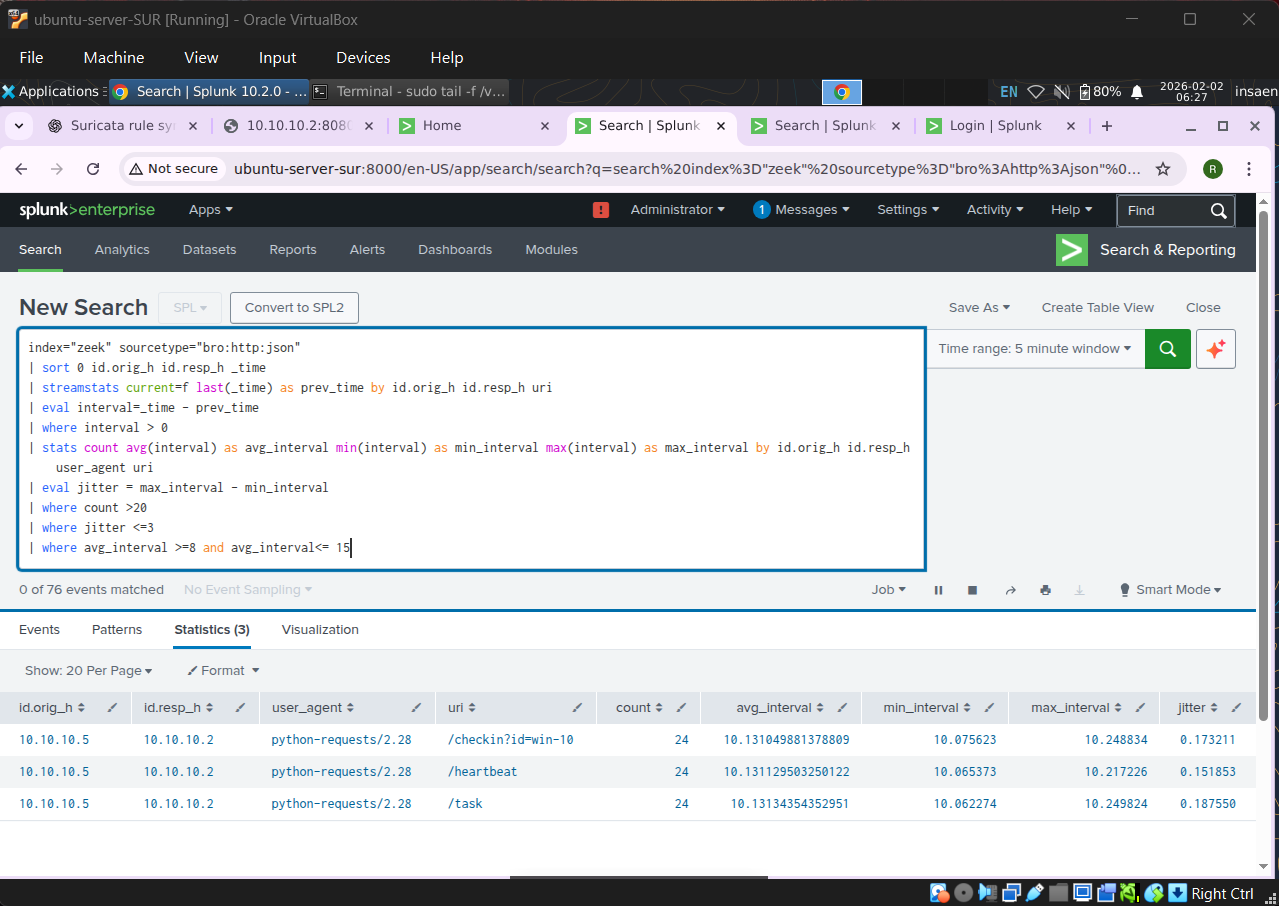
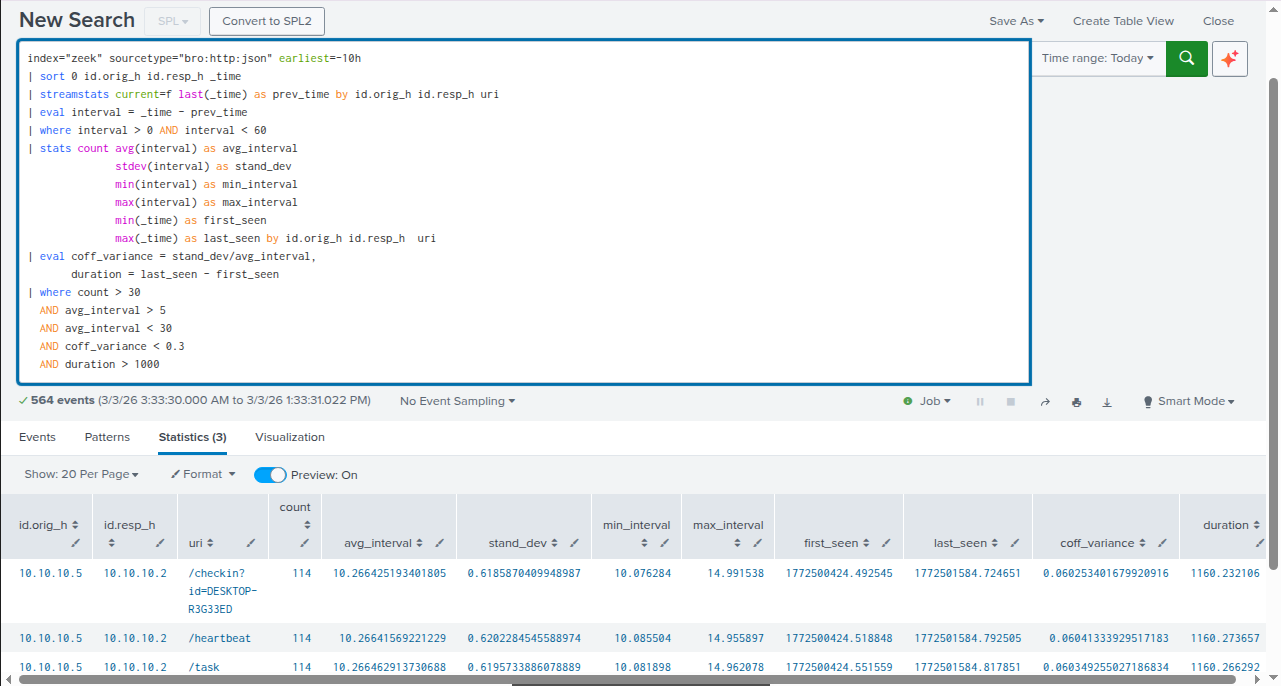
added incidence response for http beconing

diff --git a/MITRE/TA0011-Command&control/http_beconing/http_beconing.md b/MITRE/TA0011-Command&control/http_beconing/http_beconing.md
@@ -100,18 +100,31 @@ Detection is typically performed by analyzing `Zeek`'s HTTP logs. Since malware 
 
 ### Splunk SPL Queries
 
-**1. Detection based on URI and Fast Beaconing**
+**1. Detection based on URI**
 This query analyzes requests where the URI remains consistent, looking for regular intervals typical of automated beacons.
 
+> Note:** for slow beconing we simply have to adjust the earliest and duration
+
 ```splunk
-index="zeek" sourcetype="bro:http:json" latest=-1h
+index="zeek" sourcetype="bro:http: json" earliest =- 10h
 | sort 0 id.orig_h id.resp_h _time
-| streamstats current=f last(_time) as prev_time by id.orig_h id.resp_h uri
-| eval interval = _time - prev_time
-| where interval > 0
-| stats count avg(interval) as avg_interval stdev(interval) as stand_dev min(interval) as min_interval max(interval) as max_interval by id.orig_h id.resp_h  uri
-| eval coff_variance = stand_dev/avg_interval
-| where count > 20 AND coff_variance < 0.3
+| streamstats current=f last(_time) as prev_time by id.orig_h id. resp_h uri
+| eval interval = _time - prev_timeS
+| where interval > 0 AND interval < 60
+| stats count avg(interval) as avg_interval
+stdev(interval) as stand_dev
+min(interval) as min_interval
+max(interval) as max_interval
+min(_time) as first_seen
+max(_time) as last_seen
+by id.orig_h id.resp_h uri
+| eval coff_variance = stand_dev/avg_interval,
+duration = last_seen - first_seen
+| where count > 30
+AND avg_interval > 5
+AND avg_interval < 30
+AND coff_variance < 0.3
+AND duration > 1000
 ```
 
 ![Splunk SPL Visualization](./images/Becon-Spl.png)
@@ -120,28 +133,50 @@ index="zeek" sourcetype="bro:http:json" latest=-1h
 This query focuses on communication between IP pairs regardless of the URI, identifying high-frequency beaconing.
 
 ```splunk
-index="zeek" sourcetype="bro:http:json" latest=-1h
+index="zeek" sourcetype="bro:http: json" earliest =- 10h
 | sort 0 id.orig_h id.resp_h _time
-| streamstats current=f last(_time) as prev_time by id.orig_h id.resp_h uri
-| eval interval = _time - prev_time
-| where interval > 0
-| stats count avg(interval) as avg_interval stdev(interval) as stand_dev min(interval) as min_interval max(interval) as max_interval by id.orig_h id.resp_h  
-| eval coff_variance = stand_dev/avg_interval
-| where count > 20 AND coff_variance < 0.3
+| streamstats current=f last(_time) as prev_time by id.orig_h id. resp_h 
+| eval interval = _time - prev_timeS
+| where interval > 0 AND interval < 60
+| stats count avg(interval) as avg_interval
+stdev(interval) as stand_dev
+min(interval) as min_interval
+max(interval) as max_interval
+min(_time) as first_seen
+max(_time) as last_seen
+by id.orig_h id.resp_h uri
+| eval coff_variance = stand_dev/avg_interval,
+duration = last_seen - first_seen
+| where count > 30
+AND avg_interval > 5
+AND avg_interval < 30
+AND coff_variance < 0.3
+AND duration > 1000
 ```
 
 **3. Detection based solely on IP (24-Hour Window)**
 Similar to the above, but analyzes a longer timeframe (last 24 hours) to catch slower or persistent beaconing.
 
 ```splunk
-index="zeek" sourcetype="bro:http:json" latest=-1d
+index="zeek" sourcetype="bro:http: json" earliest =- 10h
 | sort 0 id.orig_h id.resp_h _time
-| streamstats current=f last(_time) as prev_time by id.orig_h id.resp_h uri
-| eval interval = _time - prev_time
-| where interval > 0
-| stats count avg(interval) as avg_interval stdev(interval) as stand_dev min(interval) as min_interval max(interval) as max_interval by id.orig_h id.resp_h 
-| eval coff_variance = stand_dev/avg_interval
-| where count > 20 AND coff_variance < 0.3
+| streamstats current=f last(_time) as prev_time by id.orig_h id. resp_h 
+| eval interval = _time - prev_timeS
+| where interval > 0 AND interval < 60
+| stats count avg(interval) as avg_interval
+stdev(interval) as stand_dev
+min(interval) as min_interval
+max(interval) as max_interval
+min(_time) as first_seen
+max(_time) as last_seen
+by id.orig_h id.resp_h uri
+| eval coff_variance = stand_dev/avg_interval,
+duration = last_seen - first_seen
+| where count > 30
+AND avg_interval > 5
+AND avg_interval < 30
+AND coff_variance < 0.3
+AND duration > 1000
 ```
 **Suricata Rule**
 Suricata isn't really reliable to detect http beconing although we can write rule for it but it can potentailly generate a lot of false positives and there isn't really a fixed signature with http beconing to track with.

diff --git a/MITRE/TA0011-Command&control/http_beconing/incidence_res.md b/MITRE/TA0011-Command&control/http_beconing/incidence_res.md
@@ -1,0 +1,69 @@
+# Incident Report: Suspected C2 HTTP Beaconing
+
+## Summary
+- Incident ID: IR-001
+- Date: 03/03/2026
+- Severity: Critical (P1)
+- Status: Confirmed Malicious
+- Analyst: Rahul dharwal
+
+## 1. Alert Trigger
+What alert fired and from which tool?
+
+- Splunk alert triggered on Zeek HTTP logs
+- SPL query detected low coefficient of variance (< 0.3) 
+  between a source and destination IP pair
+- Beaconing interval: ~10 seconds
+- Request count: 114 requests in 10 hours
+
+## 2. Investigation / Triage
+Step 1: Verified the source IP (10.10.10.5 — Windows victim) 
+
+Step 2: Verified the destination IP (10.10.10.2 — Kali/attacker)
+
+Step 3: Checked the URIs being hit → /checkin, /heartbeat, /task
+        (These are not normal browsing patterns)
+
+Step 4: Checked User-Agent → "python-requests/2.28"
+        (Not a browser — automated script)
+
+Step 5: Checked Suricata logs for any signature-based alerts
+        on the same IP pair, `found a SYN port scan and a ssh brute force attempt right after that`
+        
+Step 6: Checked if destination IP is a known/internal server → 
+        Destination ip is internal thus its a `insider threat` or someone in out internal network
+
+## 3. Findings / Indicators of Compromise (IOCs)
+| IOC Type | Value |
+|----------|-------|
+| Source IP | 10.10.10.5 |
+| Destination IP | 10.10.10.2 |
+| Destination Port | 8080 |
+| URIs | /checkin, /heartbeat, /task |
+| User-Agent | python-requests/2.28 |
+| Beacon Interval | ~10 seconds |
+| Protocol | HTTP (unencrypted) |
+
+## 4. Impact Assessment
+- Compromised host: Windows 10 victim machine
+- The malware is actively calling back to a C2 server
+- Threat is `insider threat` or someone is our internal network
+- Potential for data exfiltration, remote command execution
+- No lateral movement detected (yet)
+
+## 5. Recommended Response / Containment
+- Immediately isolate the victim machine from the network
+- Block destination IP 10.10.10.2 at the firewall
+- Identify and kill the malicious process on the victim
+- Check for persistence mechanisms (startup scripts, 
+  scheduled tasks)
+- Scan the victim with endpoint detection tools
+- Monitor for the same IOCs across other machines
+
+## 6. Lessons Learned
+- Signature-based detection (Suricata) alone would have 
+  missed this — no malicious payload signature to match
+- Behavioral detection via Zeek + Splunk caught it through 
+  statistical analysis of request intervals
+- Unencrypted HTTP C2 is easy to detect; real attackers 
+  would use HTTPS, DNS tunneling, or domain fronting

diff --git a/Readme.md b/Readme.md
@@ -6,7 +6,7 @@
 
 ## Skills Demonstrated
 
-`SIEM Querying (SPL)` · `IDS Rule Writing (Suricata)` · `Network Traffic Analysis (Zeek)` · `MITRE ATT&CK Mapping` · `Detection Engineering` · `Python Scripting` · `Linux Server Administration` · `Incident Response`
+`SIEM Querying (SPL)` · `IDS Rule Writing (Suricata)` · `Network Traffic Analysis (Zeek)` · `MITRE ATT&CK Mapping` · `Detection Engineering` · `Linux Server Administration` · `Incident Response`
 
 ---
 
@@ -52,7 +52,7 @@
 | **TA0043** | Reconnaissance | Port Scanning | [Port Scan](./MITRE/TA0043-Reconnaissance/PortScan.md) | Suricata (Signature based), Zeek (Behavioral based) |
 | **TA0006** | Credential Access | SSH Brute Force | [Brute Force](./MITRE/TA0006-CredentialAccess/bruteForce.md) | Suricata, Splunk + Linux auth.log |
 | **TA0006** | Credential Access | SMB Brute Force | [Brute Force](./MITRE/TA0006-CredentialAccess/bruteForce.md) | Suricata, Splunk + WinEventLog |
-| **TA0011** | Command & Control | HTTP Beaconing | [HTTP Beaconing](./MITRE/TA0011-Command&control/http_beconing/http_beconing.md) | Splunk + Zeek (Behavioral) |
+| **TA0011** | Command & Control | HTTP Beaconing | [HTTP Beaconing (Detection & Incident Response)](./MITRE/TA0011-Command&control/http_beconing/http_beconing.md) | Splunk + Zeek (Behavioral) |
 
 ---
 
